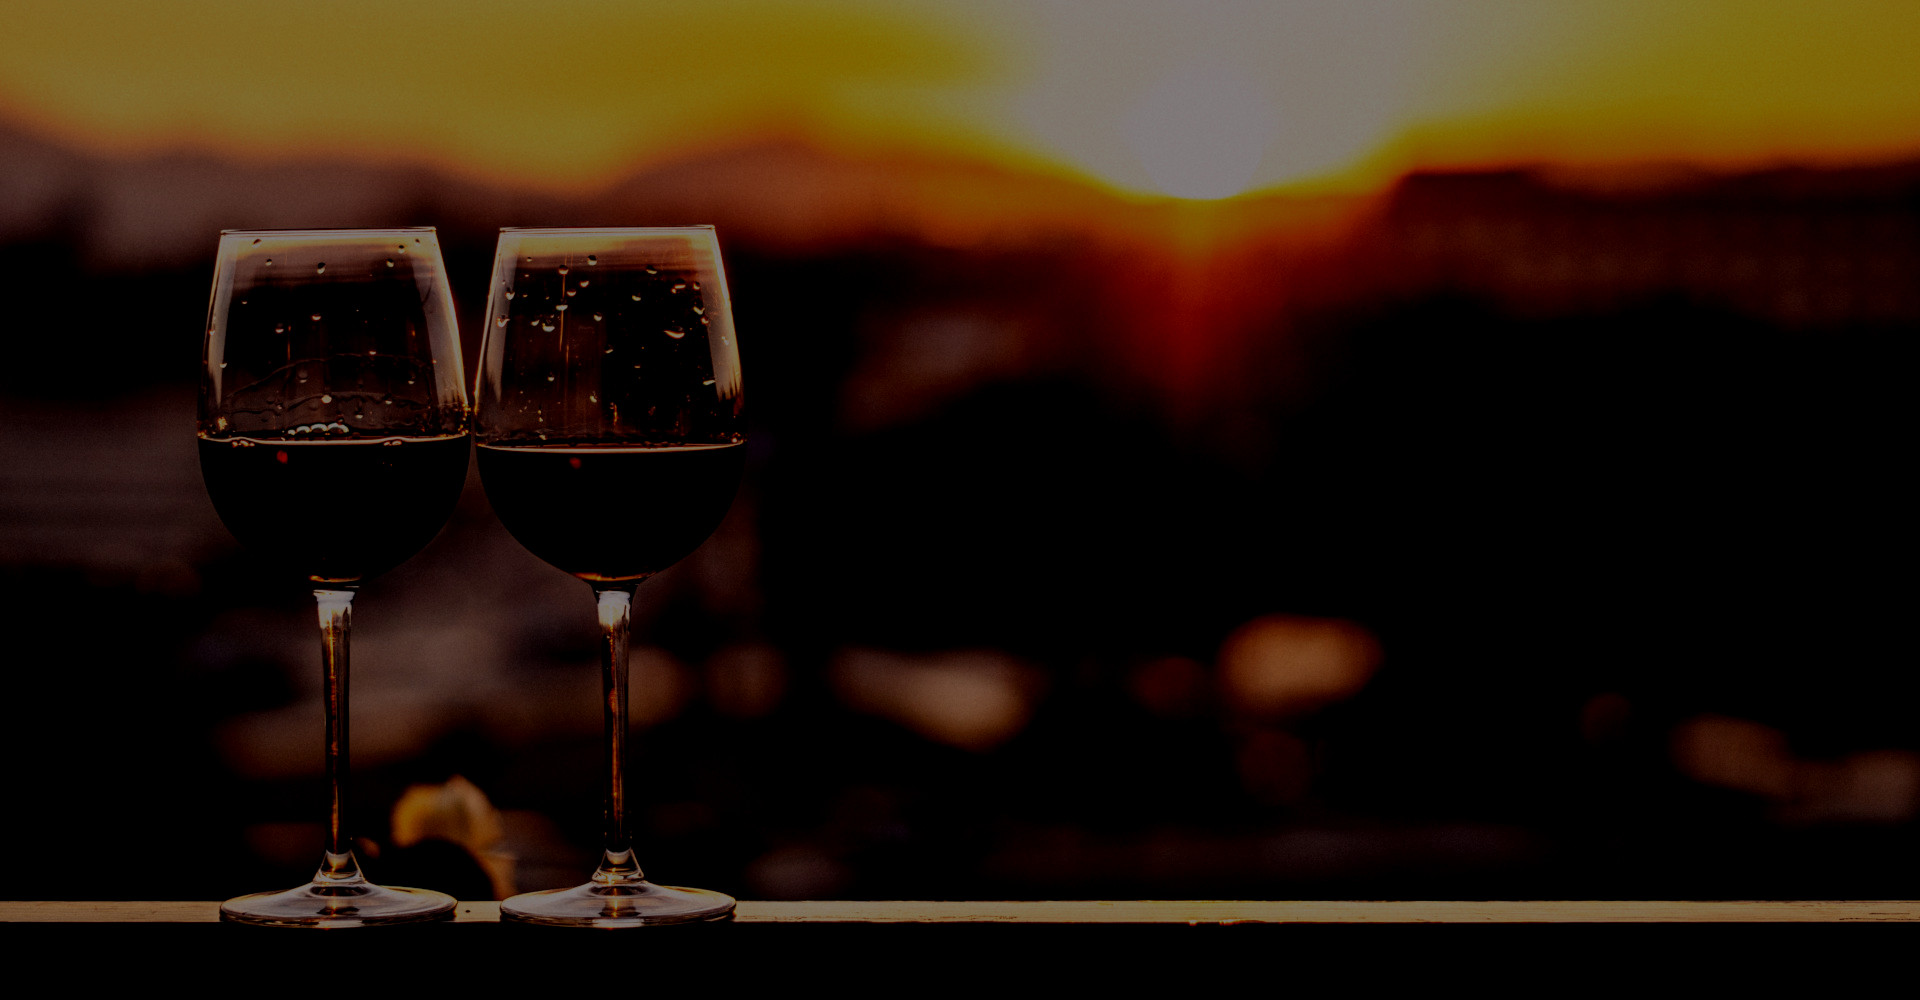
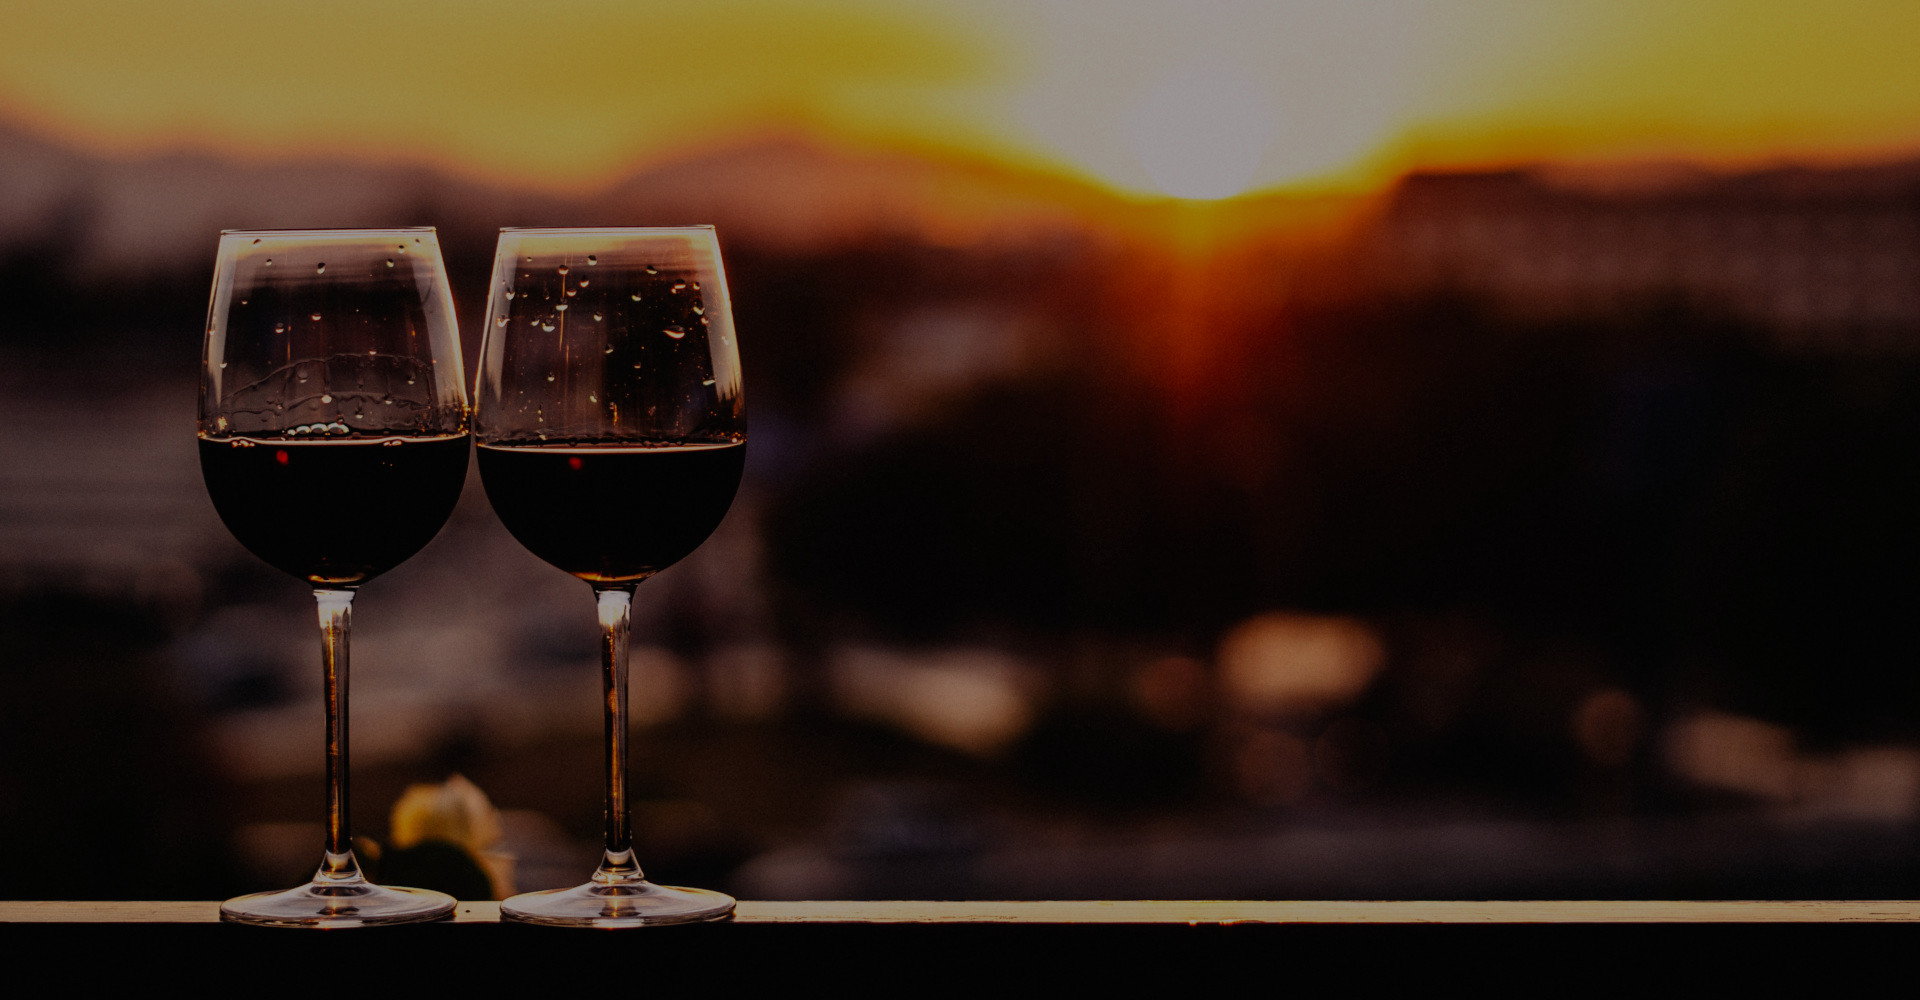
front: modif image fond home (plus claire) / modif menu jambon serrano pour ajouter -et iberique- / formalisme du prix dans showOneProduct identique a l'afficahge dans product template /// back: mise en place de l'edition/creation de produit pour les admin / ajout de la possibiliteé de suppressio de

diff --git a/src/Controller/ProductController.php b/src/Controller/ProductController.php
@@ -37,21 +37,36 @@ class ProductController extends AbstractController
         $form->handleRequest($request); // L'objet form dispose d'un gestionnaire de requete
                                         // Analyse si soumis ou pas, si les champs sont remplis etc... 
                                         // Puis bind l'ensemble des champs dans l'objet associé (ici product)
-        
+
         if($form->isSubmitted() && $form->isValid()) {
             $manager->persist($product);
             $manager->flush();
-
+            $this->addFlash('success','L\'article a bien été édité');
             return $this->redirectToRoute('product_show_one', [
                 'id' => $product->getId(),
                 'type' => $product->getType()
                 ]);
-        }
-                                        
+        }                               
         return $this->render('product/createProduct.html.twig', [
             'formProduct' => $form->createView(),
             'editMode' => $product->getId() !== null  // true si l'objet existe déjà (dans ce cas on veut éditer et non pas créer)
         ]);
+    }
+
+    /**
+     * @Route("/product/{id}/delete", name="product_delete")
+     */
+    public function deleteOneProduct($id, ProductService $productService, EntityManagerInterface $manager)
+    {
+        $product = $productService->getOneItemById($id);
+        $type = $product->getType();
+        $manager->remove($product);
+        $manager->flush();
+        $this->addFlash('success','L\'article a bien été supprimé');
+        return $this->render('product/product.html.twig', [
+            'products' => $productService->getAllItemsByType($type),
+            'pageTitle' => $productService->getProductPageTitle($type)
+        ]);                              
     }
  
     /**

diff --git a/config/bundles.php b/config/bundles.php
@@ -14,5 +14,4 @@ return [
     Twig\Extra\TwigExtraBundle\TwigExtraBundle::class => ['all' => true],
     Symfony\Bundle\WebServerBundle\WebServerBundle::class => ['dev' => true],
     Doctrine\Bundle\FixturesBundle\DoctrineFixturesBundle::class => ['dev' => true, 'test' => true],
-    Symfony\Bundle\SwiftmailerBundle\SwiftmailerBundle::class => ['all' => true],
 ];
